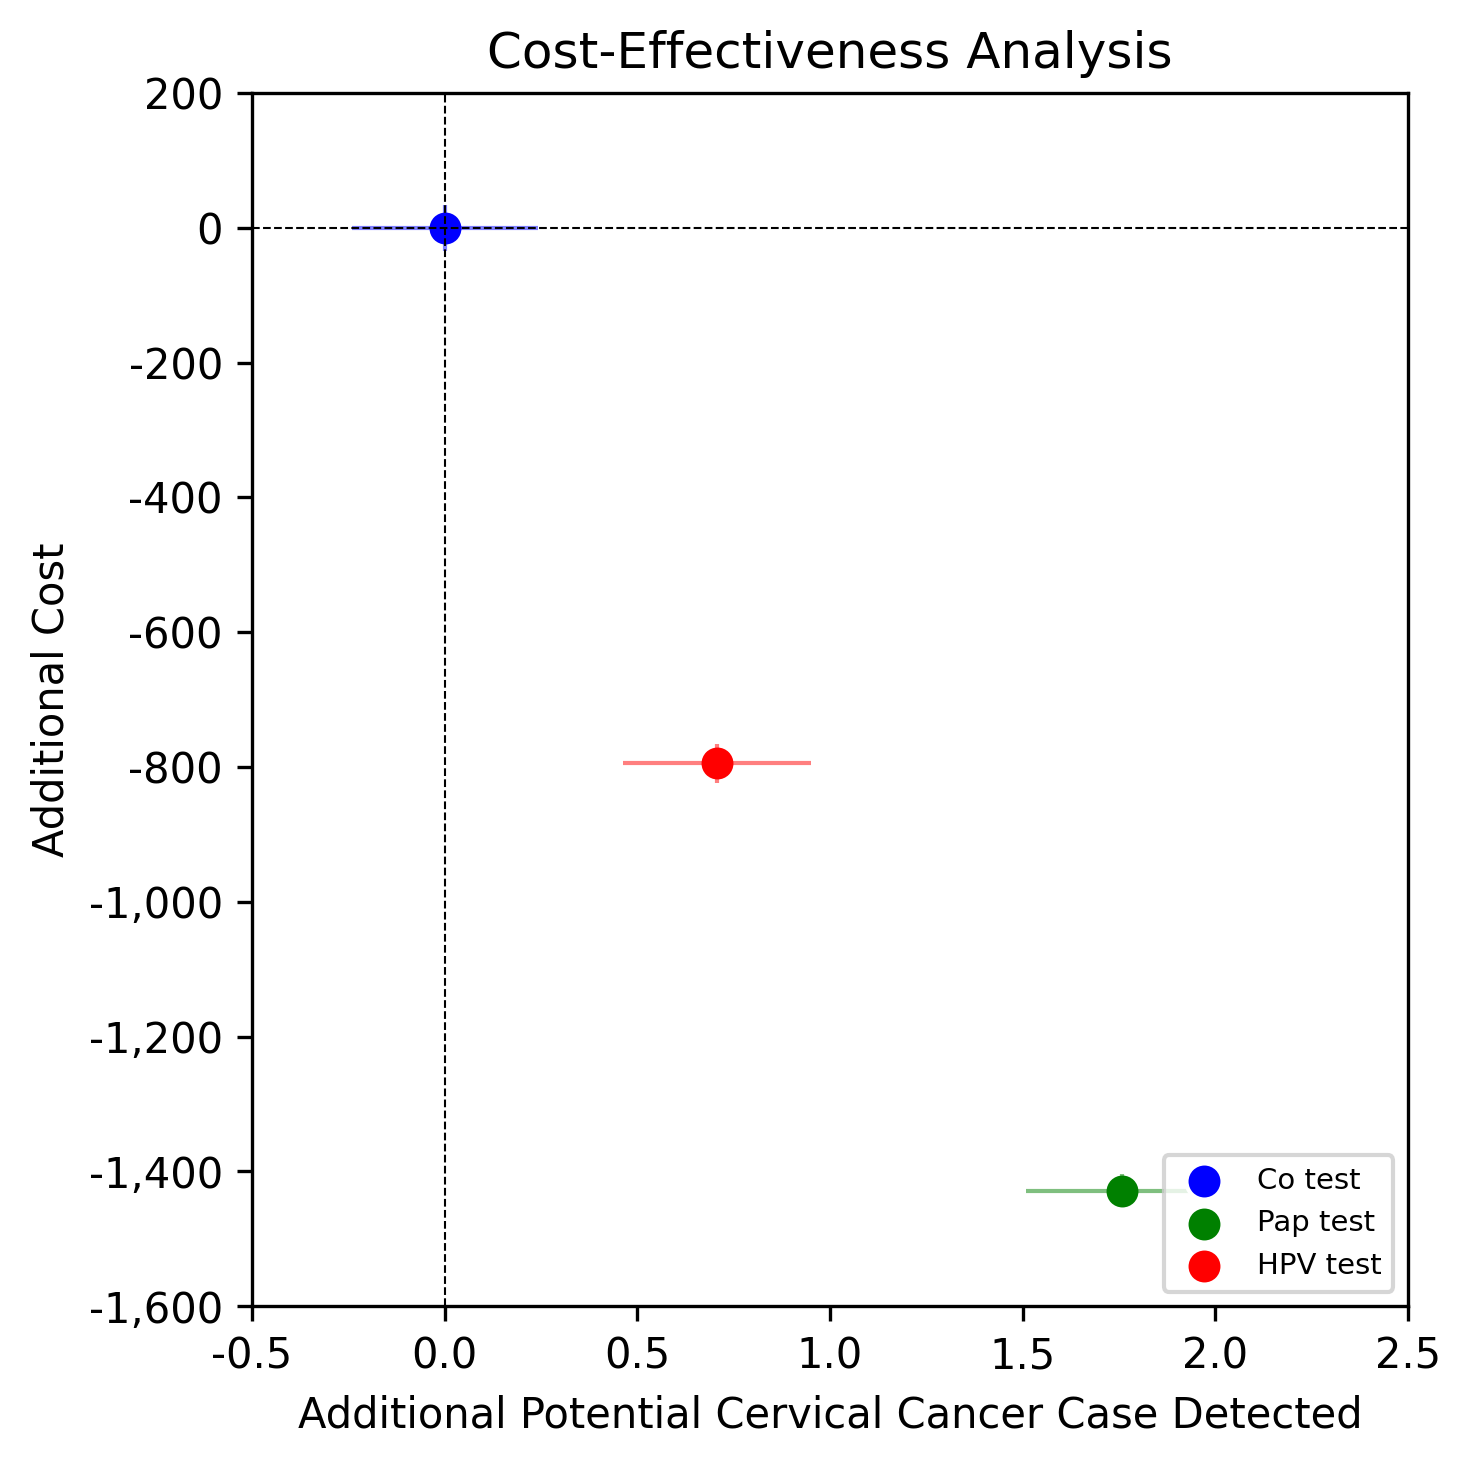
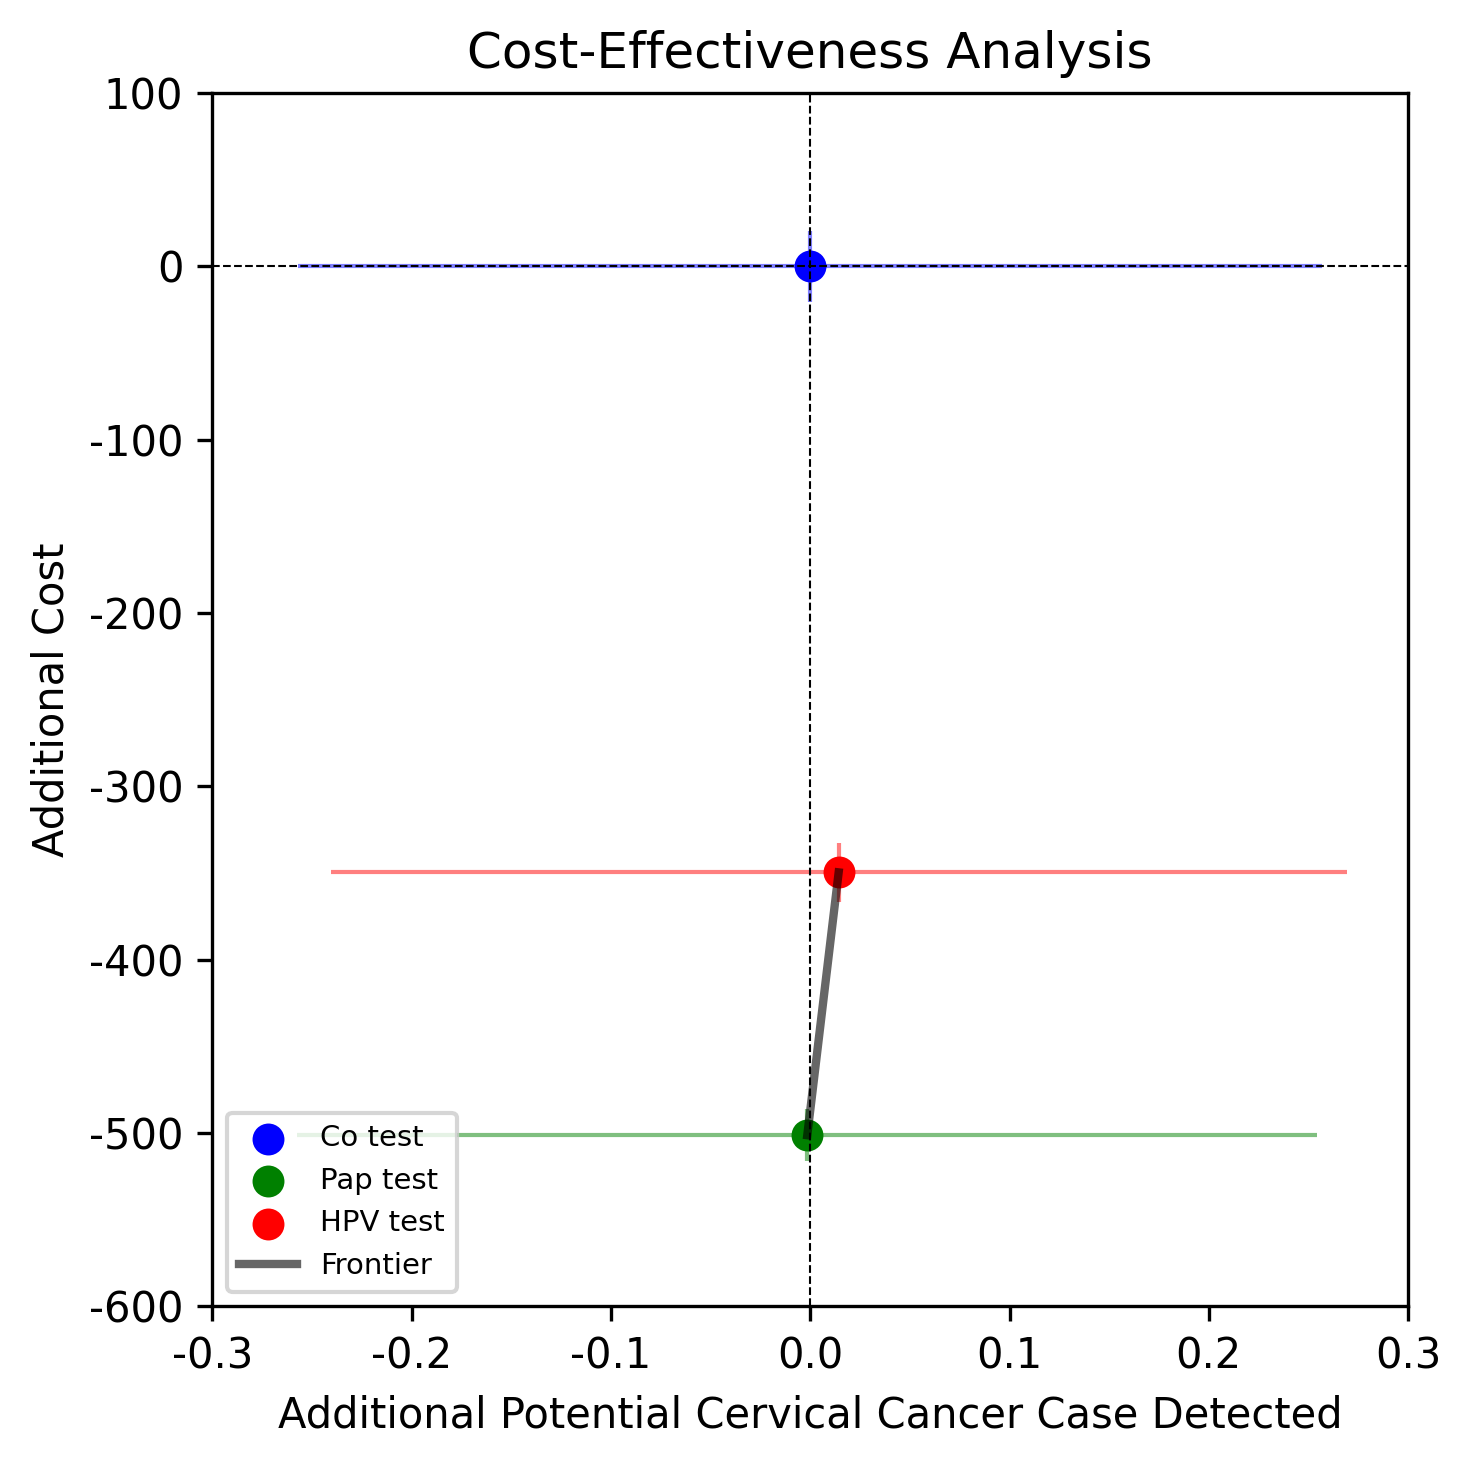
9

diff --git a/support.py b/support.py
@@ -1,7 +1,4 @@
 import deampy.econ_eval as econ
-import deampy.plots.histogram as hist
-import deampy.statistics as stat
-
 import input_data as data
 
 
@@ -30,71 +27,6 @@ def print_outcomes(sim_outcomes, test_name):
     print("  Estimate of discounted utility and {:.{prec}%} confidence interval:".format(1 - data.ALPHA, prec=0),
           utility_mean_CI_text)
     print("")
-
-
-def plot_histograms(sim_outcomes_pap, sim_outcomes_HPV, sim_outcomes_co):
-    potential_cancer_numbers = [
-        sim_outcomes_pap.nPotentialCancer,
-        sim_outcomes_HPV.nPotentialCancer,
-        sim_outcomes_co.nPotentialCancer
-    ]
-
-    # histogram of number of potential cancer cases detected
-    hist.plot_histograms(
-        data_sets=potential_cancer_numbers,
-        title='Histogram of Number of potential cancer cases detected',
-        x_label='Number of potential cancer cases detected',
-        y_label='Count',
-        bin_width=1,
-        legends=['Pap Test', 'HPV test', 'Co Test'],
-        color_codes=['blue', 'green', 'red'],
-        transparency=0.5,
-        file_name='figs/number_of_potential_cancer.png'
-    )
-
-
-def print_comparative_outcomes(sim_outcomes_pap, sim_outcomes_co, sim_outcomes_HPV):
-    # Calculate the difference in the number of potential cancer cases detected between Pap test and Co test
-    increase_potential_cancer_number_pap_vs_co = stat.DifferenceStatIndp(
-        name='Change in mean number of potential cancer cases detected (Pap vs. Co)',
-        x=sim_outcomes_pap.nPotentialCancer,
-        y_ref=sim_outcomes_co.nPotentialCancer
-    )
-
-    # Estimate and CI
-    estimate_CI_pap_vs_co = increase_potential_cancer_number_pap_vs_co.get_formatted_mean_and_interval(
-        interval_type='c', alpha=data.ALPHA, deci=2
-    )
-    print("Change in mean number of potential cancer cases detected (Pap vs. Co) and {:.{prec}%} confidence interval:"
-          .format(1 - data.ALPHA, prec=0), estimate_CI_pap_vs_co)
-
-    # Calculate the difference in the number of potential cancer cases detected between HPV test and Co test
-    increase_potential_cancer_number_hpv_vs_co = stat.DifferenceStatIndp(
-        name='Change in mean number of potential cancer cases detected (HPV vs. Co)',
-        x=sim_outcomes_HPV.nPotentialCancer,
-        y_ref=sim_outcomes_co.nPotentialCancer
-    )
-
-    # Estimate and CI
-    estimate_CI_hpv_vs_co = increase_potential_cancer_number_hpv_vs_co.get_formatted_mean_and_interval(
-        interval_type='c', alpha=data.ALPHA, deci=2
-    )
-    print("Change in mean number of potential cancer cases detected (HPV vs. Co) and {:.{prec}%} confidence interval:"
-          .format(1 - data.ALPHA, prec=0), estimate_CI_hpv_vs_co)
-
-    # Calculate the difference in the number of potential cancer cases detected between Pap test and HPV test
-    increase_potential_cancer_number_pap_vs_hpv = stat.DifferenceStatIndp(
-        name='Change in mean number of potential cancer cases detected (Pap vs. HPV)',
-        x=sim_outcomes_pap.nPotentialCancer,
-        y_ref=sim_outcomes_HPV.nPotentialCancer
-    )
-
-    # Estimate and CI
-    estimate_CI_pap_vs_hpv = increase_potential_cancer_number_pap_vs_hpv.get_formatted_mean_and_interval(
-        interval_type='c', alpha=data.ALPHA, deci=2
-    )
-    print("Change in mean number of potential cancer cases detected (Pap vs. HPV) and {:.{prec}%} confidence interval:"
-          .format(1 - data.ALPHA, prec=0), estimate_CI_pap_vs_hpv)
 
 
 def report_CEA_CBA(sim_outcomes_pap, sim_outcomes_co, sim_outcomes_HPV):
@@ -162,4 +94,3 @@ def report_CEA_CBA(sim_outcomes_pap, sim_outcomes_co, sim_outcomes_HPV):
         figure_size=(6, 5),
         file_name='figs/nmb.png'
     )
-

diff --git a/CompareAlternatives.py b/CompareAlternatives.py
@@ -35,16 +35,6 @@ support.print_outcomes(sim_outcomes=cohort_HPV.cohortOutcomes,
 support.print_outcomes(sim_outcomes=cohort_co.cohortOutcomes,
                        test_name=param.Tests.CO_TEST)
 
-# plot histograms
-support.plot_histograms(sim_outcomes_pap=cohort_pap.cohortOutcomes,
-                        sim_outcomes_HPV=cohort_HPV.cohortOutcomes,
-                        sim_outcomes_co=cohort_co.cohortOutcomes)
-
-# print comparative outcomes
-support.print_comparative_outcomes(sim_outcomes_pap=cohort_pap.cohortOutcomes,
-                                   sim_outcomes_HPV=cohort_HPV.cohortOutcomes,
-                                   sim_outcomes_co=cohort_co.cohortOutcomes)
-
 # report the CEA results
 support.report_CEA_CBA(sim_outcomes_pap=cohort_pap.cohortOutcomes,
                        sim_outcomes_HPV=cohort_HPV.cohortOutcomes,

diff --git a/input_data.py b/input_data.py
@@ -23,19 +23,14 @@ class HealthStates(Enum):
 # Natural death rate
 NATURAL_DEATH_RATE = 0.00613
 
-# Update sensitivity and specificity parameters for each screening test
+# Update sensitivity parameters for each screening test
 PAP_SENSITIVITY = 0.554
-PAP_SPECIFICITY = 0.968
-
 HPV_SENSITIVITY = 0.946
-HPV_SPECIFICITY = 0.941
-
 CO_TEST_SENSITIVITY = 0.994
-CO_TEST_SPECIFICITY = 0.95
 
-PAP_TEST_POSITIVE = 0.038/3
-HPV_TEST_POSITIVE = 0.268/5
-CO_TEST_POSITIVE = 0.4/5
+PAP_TEST_POSITIVE = 0.109/3
+HPV_TEST_POSITIVE = 0.028/5
+CO_TEST_POSITIVE = 0.027/5
 
 # Annual state costs
 ANNUAL_STATE_COST = [
@@ -49,11 +44,11 @@ ANNUAL_STATE_COST = [
 
 ANNUAL_STATE_UTILITY = [
     1,
-    0.95,
-    0.7,
-    0.6,
-    0.5,
-    0.3,
+    0.9997,
+    0.9724,
+    0.9704,
+    0.9704,
+    0.8178,
     0]
 
 # Cost of screening and colposcopy
